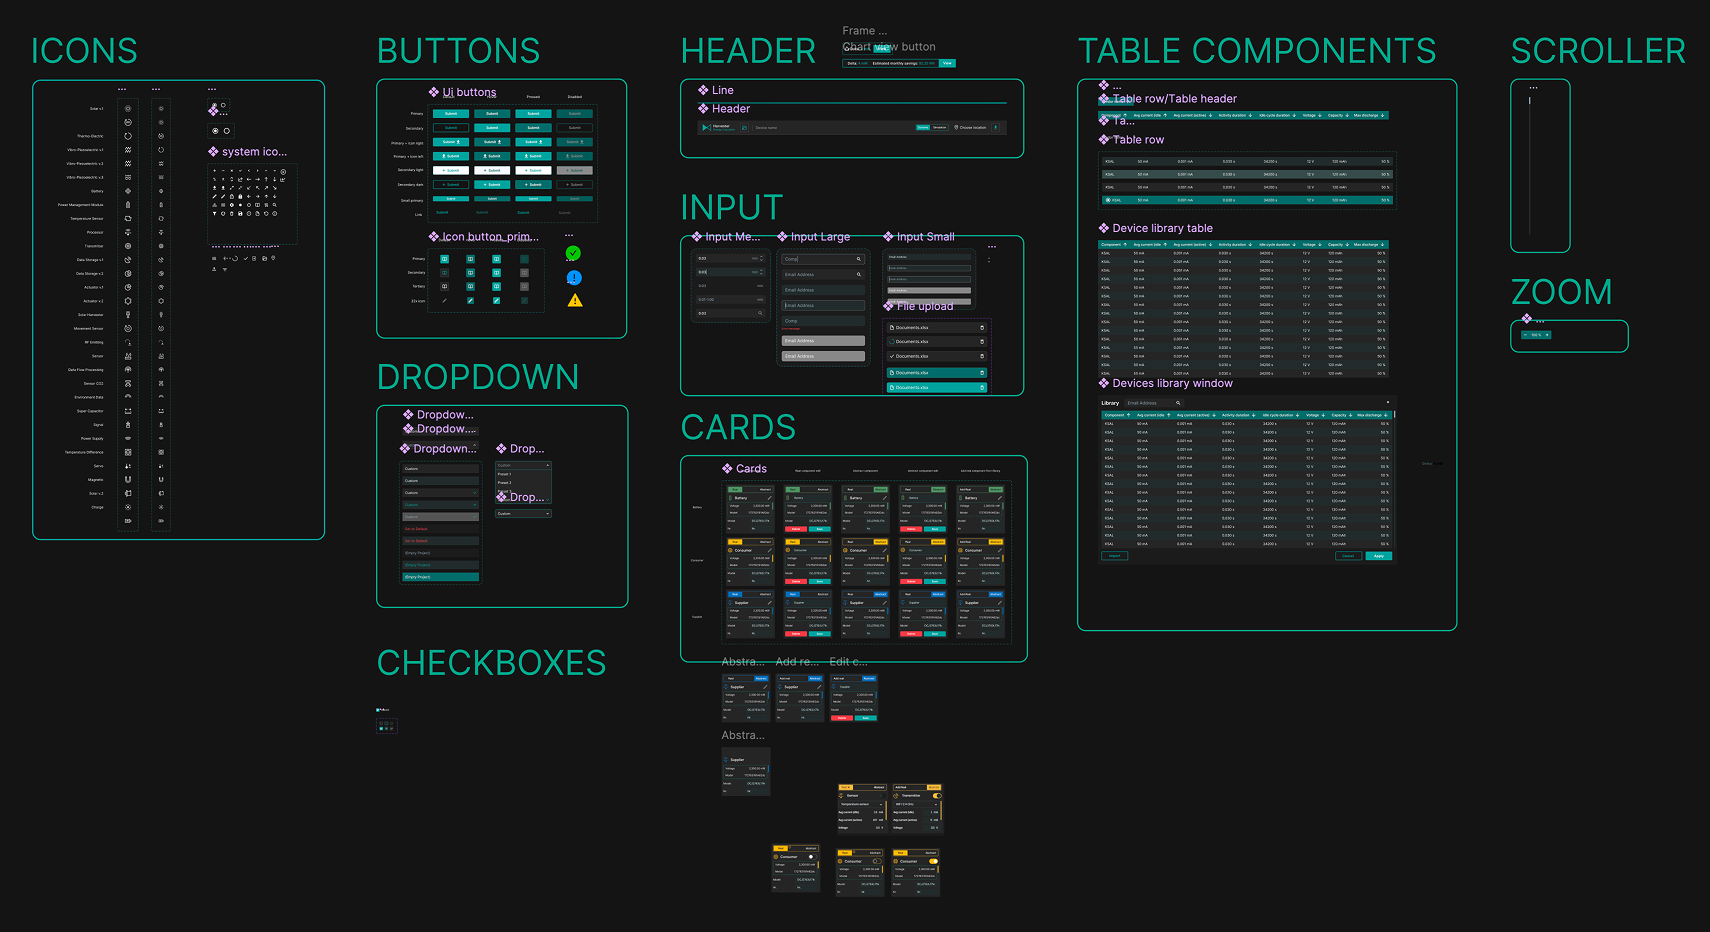
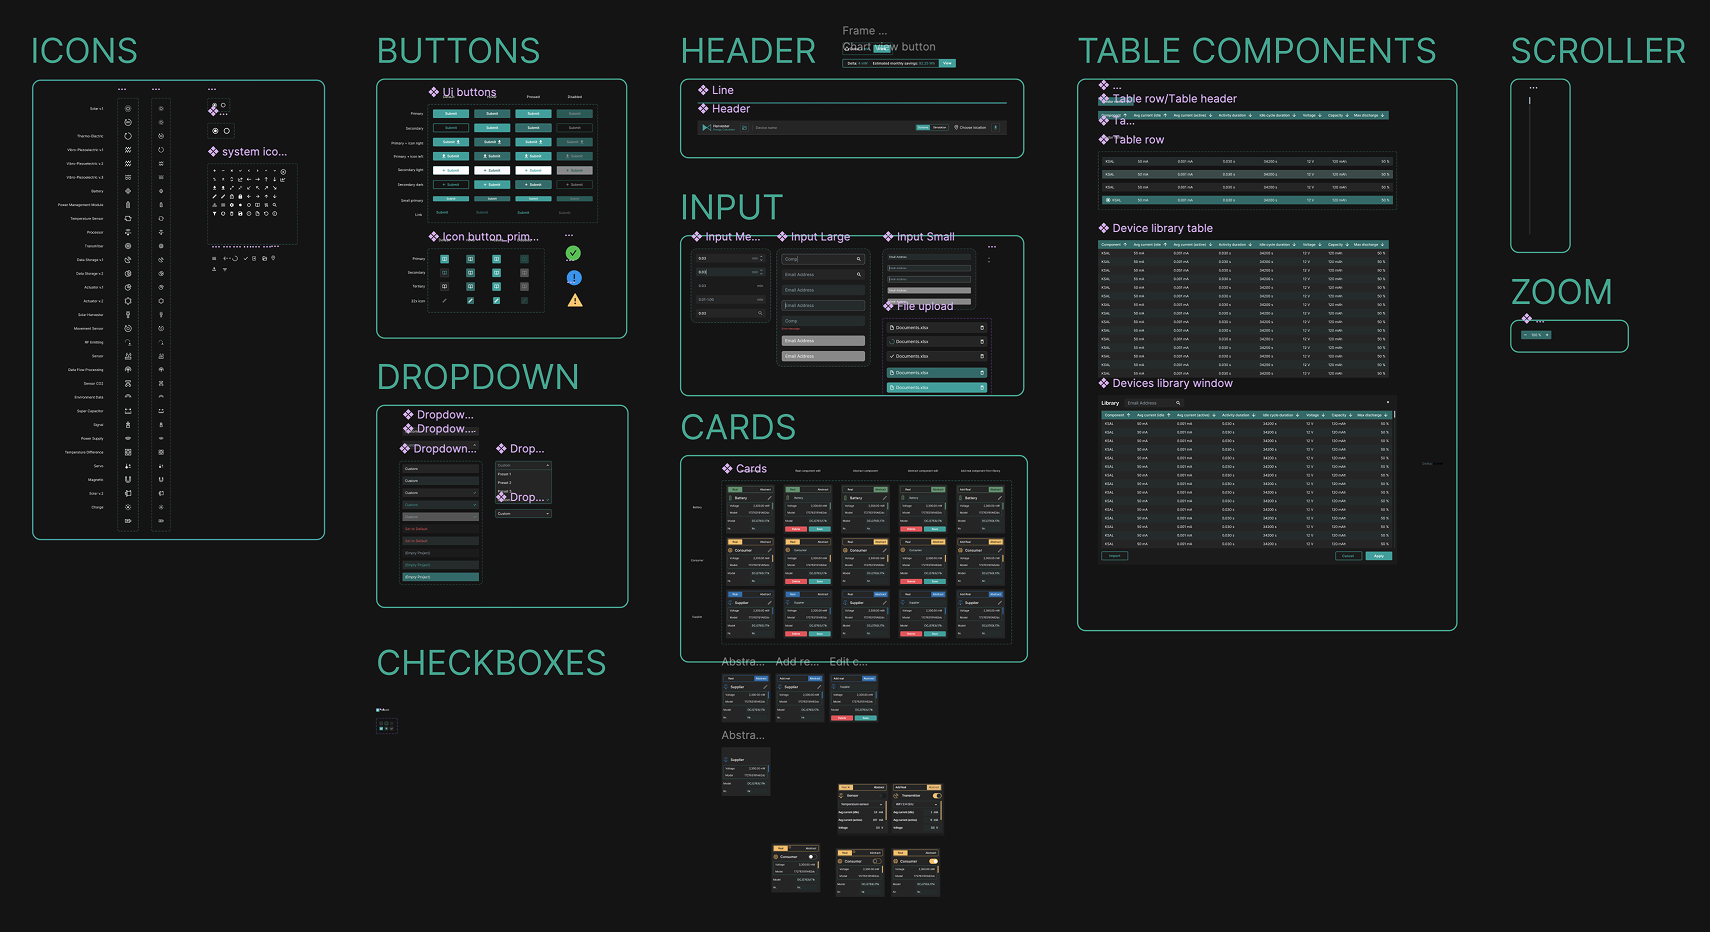
update Harvester case: restructure content, add illustrations and prototype grid

diff --git a/src/components/mdx/process-flow.tsx b/src/components/mdx/process-flow.tsx
@@ -1,0 +1,129 @@
+"use client";
+
+/**
+ * Vertical process flow / flowchart for MDX.
+ * Supports up to 12 steps with optional branching (IF success / IF fail).
+ * Uses flat props because MDX doesn't support array/object props.
+ *
+ * Each step: step1 / sub1 (optional subtitle) / branch1 ("success" | "fail" | "back:N")
+ * Branch steps: successLabel1 / failLabel1 / failTarget1 (step number to go back to)
+ */
+
+interface ProcessFlowProps {
+  [key: string]: string | undefined;
+}
+
+interface Step {
+  label: string;
+  sub?: string;
+  successLabel?: string;
+  failLabel?: string;
+  failTarget?: number;
+  isBranch?: boolean;
+}
+
+export function ProcessFlow(props: ProcessFlowProps) {
+  const steps: Step[] = [];
+
+  for (let n = 1; n <= 12; n++) {
+    const label = props[`step${n}`];
+    if (!label) break;
+    steps.push({
+      label,
+      sub: props[`sub${n}`],
+      isBranch: props[`branch${n}`] === "true",
+      successLabel: props[`successLabel${n}`],
+      failLabel: props[`failLabel${n}`],
+      failTarget: props[`failTarget${n}`] ? Number(props[`failTarget${n}`]) : undefined,
+    });
+  }
+
+  if (steps.length === 0) return null;
+
+  return (
+    <div className="my-8 p-6 md:p-8 bg-card rounded-lg border border-border overflow-x-auto">
+      <div className="flex flex-col items-center gap-0">
+        {steps.map((step, i) => (
+          <div key={i} className="flex flex-col items-center w-full">
+            {/* Connector line from previous step */}
+            {i > 0 && (
+              <div className="w-px h-6 bg-border" />
+            )}
+
+            {step.isBranch ? (
+              /* Diamond-shaped branch node */
+              <div className="flex flex-col items-center w-full">
+                <div className="relative w-full max-w-xs">
+                  {/* Diamond */}
+                  <div className="w-full aspect-[2/1] flex items-center justify-center">
+                    <div
+                      className="absolute inset-0 m-auto w-48 h-24 bg-card border-2 border-primary/50 rotate-0"
+                      style={{
+                        clipPath: "polygon(50% 0%, 100% 50%, 50% 100%, 0% 50%)",
+                      }}
+                    />
+                    <span className="relative z-10 text-xs md:text-sm font-medium text-foreground text-center px-4 leading-tight">
+                      {step.label}
+                    </span>
+                  </div>
+                </div>
+
+                {/* Branch arms */}
+                <div className="flex items-start justify-center gap-8 md:gap-16 w-full mt-2">
+                  {/* Success branch (left) */}
+                  <div className="flex flex-col items-center gap-2">
+                    <div className="w-px h-4 bg-emerald-500/50" />
+                    <div className="px-3 py-1.5 rounded-md bg-emerald-500/10 border border-emerald-500/30">
+                      <span className="text-xs text-emerald-400 font-medium whitespace-nowrap">
+                        {step.successLabel || "Success"}
+                      </span>
+                    </div>
+                    <svg viewBox="0 0 12 10" fill="none" className="w-3 h-3 text-emerald-500/50 rotate-90">
+                      <path d="M7 1l4 4-4 4" stroke="currentColor" strokeWidth="1.5" strokeLinecap="round" strokeLinejoin="round"/>
+                    </svg>
+                  </div>
+
+                  {/* Fail branch (right) */}
+                  <div className="flex flex-col items-center gap-2">
+                    <div className="w-px h-4 bg-red-500/50" />
+                    <div className="px-3 py-1.5 rounded-md bg-red-500/10 border border-red-500/30">
+                      <span className="text-xs text-red-400 font-medium whitespace-nowrap">
+                        {step.failLabel || "Fail"}
+                      </span>
+                    </div>
+                    {step.failTarget && (
+                      <span className="text-[10px] text-muted-foreground">
+                        ↩ step {step.failTarget}
+                      </span>
+                    )}
+                  </div>
+                </div>
+              </div>
+            ) : (
+              /* Regular step node */
+              <div className="w-full max-w-sm">
+                <div className="px-4 py-3 rounded-lg bg-secondary/50 border border-border hover:border-primary/30 transition-colors">
+                  <div className="flex items-start gap-3">
+                    <span className="shrink-0 w-6 h-6 rounded-full bg-primary/15 text-primary text-xs font-bold flex items-center justify-center mt-0.5">
+                      {i + 1}
+                    </span>
+                    <div className="min-w-0">
+                      <p className="text-sm font-medium text-foreground leading-snug">
+                        {step.label}
+                      </p>
+                      {step.sub && (
+                        <p className="text-xs text-muted-foreground mt-1 leading-relaxed">
+                          {step.sub}
+                        </p>
+                      )}
+                    </div>
+                  </div>
+                </div>
+              </div>
+            )}
+          </div>
+        ))}
+      </div>
+    </div>
+  );
+}

diff --git a/src/components/mdx/mdx-content.tsx b/src/components/mdx/mdx-content.tsx
@@ -4,6 +4,7 @@ import { Badge } from "@/components/ui/badge";
 import { ImageCarousel } from "@/components/mdx/image-carousel";
 import { ZoomableImage } from "@/components/mdx/zoomable-image";
 import { TokenPipeline } from "@/components/mdx/token-pipeline";
+import { ProcessFlow } from "@/components/mdx/process-flow";
 
 // Custom MDX components for rich content
 export const mdxComponents = {
@@ -157,6 +158,7 @@ export const mdxComponents = {
   Badge,
   ImageCarousel,
   TokenPipeline,
+  ProcessFlow,
 
   // Callout component
   Callout: ({
